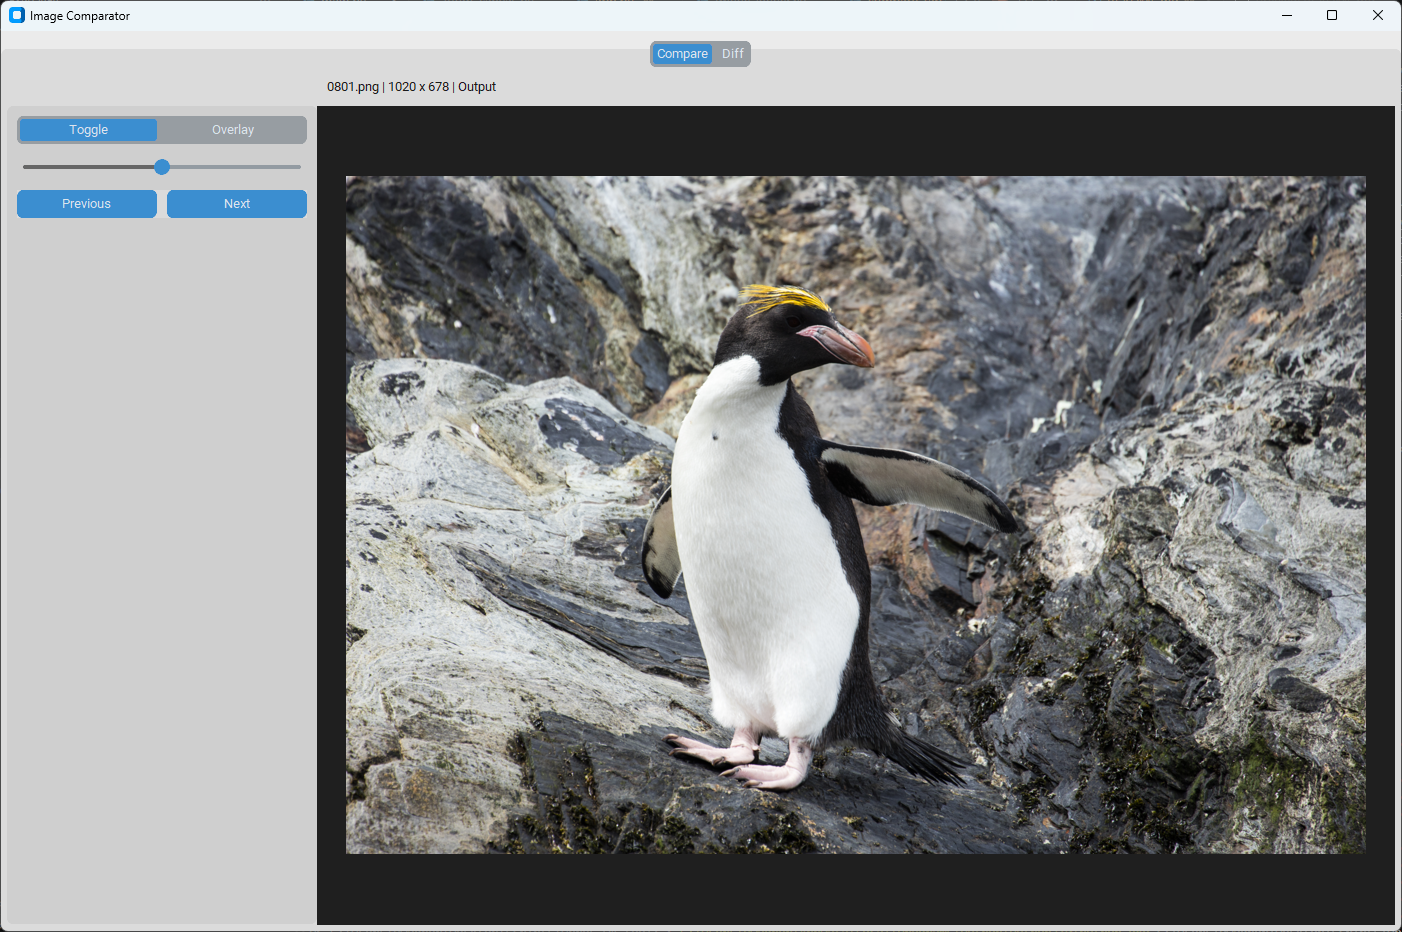
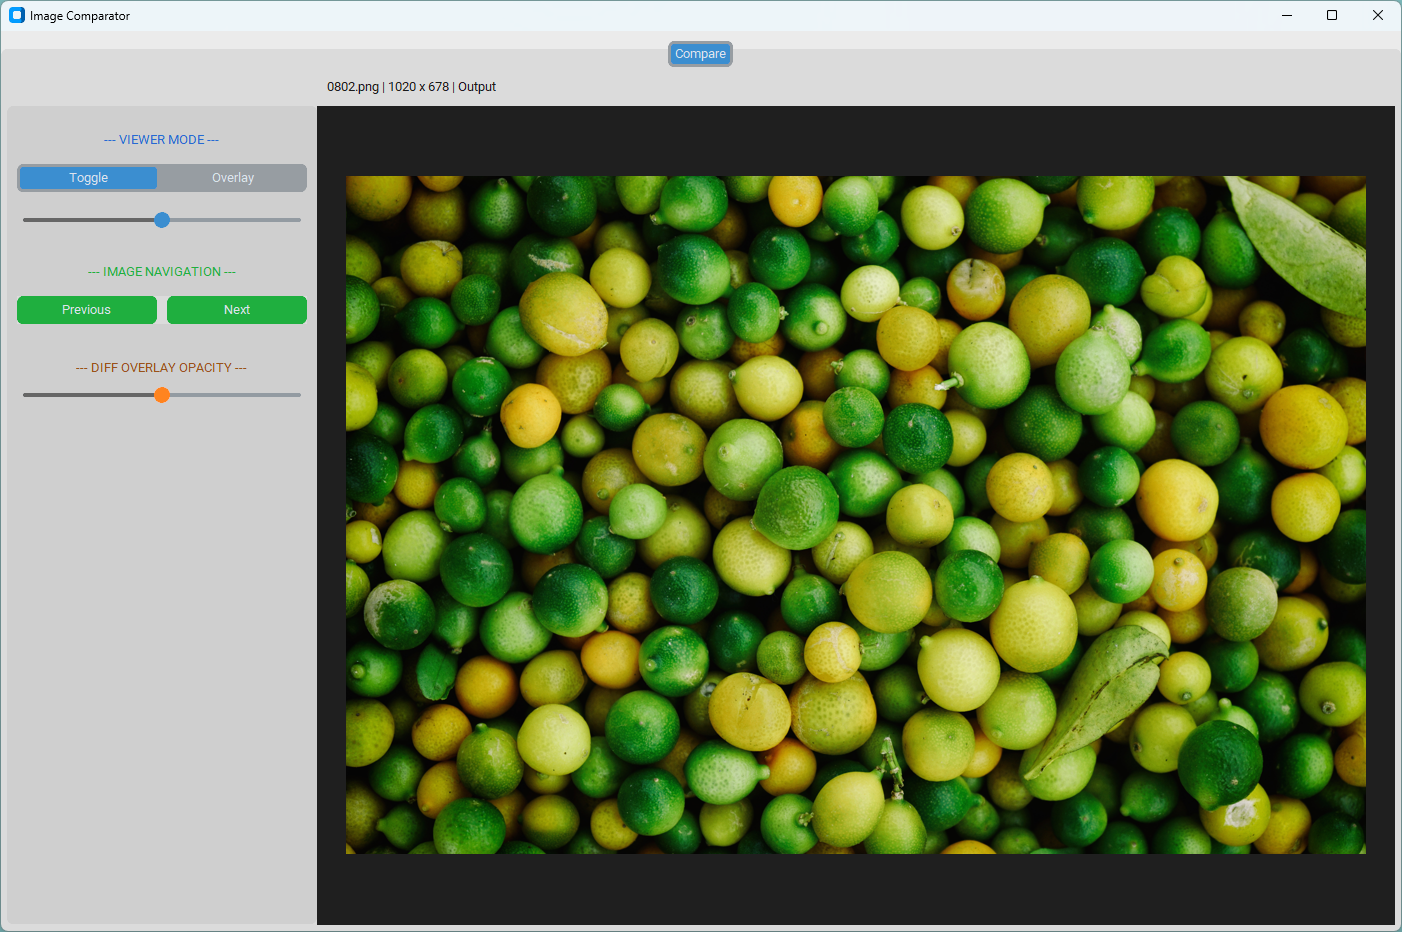
Major update
Added the diff mode viewer
Updated the UI
Updated the Readme

diff --git a/ui/compare_tab.py b/ui/compare_tab.py
@@ -1,5 +1,7 @@
 import customtkinter as ctk
 from PIL import Image
+import numpy as np
+
 
 
 class CompareTab(ctk.CTkFrame):
@@ -11,6 +13,9 @@ class CompareTab(ctk.CTkFrame):
 
         self.compare_mode = ctk.StringVar(value="Toggle")
         self.slider_value = ctk.DoubleVar(value=0.5)
+        
+        self.diff_cache = {}
+
 
         self._build_ui()
 
@@ -21,12 +26,12 @@ class CompareTab(ctk.CTkFrame):
         # Sidebar
         sidebar = ctk.CTkFrame(self, width=300)
         sidebar.grid(row=2, column=0, sticky="ns")
-
+        # VIEWER MODE BUTTONS
+        self.diff_label = ctk.CTkLabel(sidebar, text="--- VIEWER MODE ---", text_color="#246AD3")
+        self.diff_label.pack(padx=10, pady=(20,0), anchor="center")
         self.mode_selector = ctk.CTkSegmentedButton(
             sidebar,
-            # values=["Toggle", "Side-by-side", "Overlay"], <-- no need for the side-by-side view
             values=["Toggle", "Overlay"],
-
             variable=self.compare_mode,
             command=self.update_view
         )
@@ -38,8 +43,12 @@ class CompareTab(ctk.CTkFrame):
             to=1,
             variable=self.slider_value,
             command=lambda x: self.update_view()
-        )
-        self.slider.pack(padx=10, pady=5, fill="x")
+        )   
+        self.slider.pack(padx=10, pady=10, fill="x")
+
+        # NAVIGATION BUTTONS
+        self.diff_label = ctk.CTkLabel(sidebar, text="--- IMAGE NAVIGATION ---", text_color="#1FAF3F")
+        self.diff_label.pack(padx=10, pady=(20,0), anchor="center")
 
         nav_frame = ctk.CTkFrame(sidebar)
         nav_frame.pack(padx=10, pady=10, fill="x")
@@ -47,14 +56,35 @@ class CompareTab(ctk.CTkFrame):
         ctk.CTkButton(
             nav_frame,
             text="Previous",
-            command=self.controller.prev_image
+            command=self.controller.prev_image,
+            fg_color="#1FAF3F",
         ).pack(side="left", expand=True, fill="x", padx=(0, 5))
 
         ctk.CTkButton(
             nav_frame,
             text="Next",
-            command=self.controller.next_image
+            command=self.controller.next_image,
+            fg_color="#1FAF3F",
         ).pack(side="right", expand=True, fill="x", padx=(5, 0))
+
+        self.diff_opacity = ctk.DoubleVar(value=0.5)
+
+        # DIFF OPACITY BUTTONS
+        self.diff_label = ctk.CTkLabel(sidebar, text="--- DIFF OVERLAY OPACITY ---", text_color="#99531a")
+        self.diff_label.pack(padx=10, pady=(20,0), anchor="center")
+        self.diff_slider = ctk.CTkSlider(
+            sidebar,
+            from_=0.0,
+            to=1.0,
+            variable=self.diff_opacity,
+            button_color="#ff841f",
+            button_hover_color="#99531a",
+            command=lambda x: self.update_view()
+        )
+
+        self.diff_slider.pack(padx=10, pady=5, fill="x")
+
+        
 
         # Name of the image currently displayed
         self.info_label = ctk.CTkLabel(self, text="", anchor="w")
@@ -91,10 +121,12 @@ class CompareTab(ctk.CTkFrame):
             if view == "input":
                 img = self.input
                 source = "Ground-truth"
-            else:
+            elif view == "output":
                 img = self.output
                 source = "Output"
-
+            elif view == "diff":
+                img = self.diff_cache
+                source = "Output + Diff Overlay"
             width, height = img.size
 
             text = f"{file_name} | {width} x {height} | {source}"
@@ -123,6 +155,10 @@ class CompareTab(ctk.CTkFrame):
 
             elif self.controller.current_view == "output":
                 img = self.output
+
+            elif self.controller.current_view == "diff":
+                img = self.get_overlay_diff()
+
 
         elif mode == "Side-by-side":
             img = self.side_by_side(self.input, self.output)
@@ -157,3 +193,46 @@ class CompareTab(ctk.CTkFrame):
         out.paste(a.crop((0, 0, split, h)), (0, 0))
         out.paste(b.crop((split, 0, w, h)), (split, 0))
         return out
+
+
+    def get_overlay_diff(self):
+        file = self.controller.current_file
+
+        # base output image (what user sees)
+        base = self.output
+
+        # get diff image (heatmap)
+        diff_img = self.get_diff_image()
+
+        # resize diff to match base (safety)
+        if diff_img.size != base.size:
+            diff_img = diff_img.resize(base.size)
+
+        # convert to arrays
+        base_np = np.array(base).astype(np.float32)
+        diff_np = np.array(diff_img).astype(np.float32)
+
+        alpha = self.diff_opacity.get()
+
+        # blend
+        blended = (1 - alpha) * base_np + alpha * diff_np
+
+        return Image.fromarray(blended.astype(np.uint8))
+
+
+    def get_diff_image(self):
+        file = self.controller.current_file
+
+        # Use cache
+        if file in self.diff_cache:
+            return self.diff_cache[file]
+
+        # Compute diff
+        diff_img, _ = self.controller.diff_engine.compute(
+            file,
+            method="SSIM",   # or read from a global setting later
+            resample=self.controller.get_resample_filter()
+        )
+
+        self.diff_cache[file] = diff_img
+        return diff_img

diff --git a/ui/app.py b/ui/app.py
@@ -4,6 +4,8 @@ from ui.diff_tab import DiffTab
 from pathlib import Path
 from PIL import Image
 from core.image_loader import discover_images
+from core.diff_engine import DiffEngine
+from PIL import Image
 
 
 class ImageCompareApp(ctk.CTk):
@@ -16,9 +18,14 @@ class ImageCompareApp(ctk.CTk):
 
         self.current_view = "input"
         self.current_file = None
+        
+
 
         self.gt_dir = Path("ground-truth")
         self.out_dir = Path("output")
+
+        self.diff_engine = DiffEngine(self.gt_dir, self.out_dir)
+
 
         self._build_ui()
 
@@ -31,16 +38,19 @@ class ImageCompareApp(ctk.CTk):
         self.compare_tab = CompareTab(compare_frame, self)
         self.compare_tab.pack(fill="both", expand=True)
         
-        diff_frame = self.tabs.add("Diff")
-        self.diff_tab = DiffTab(diff_frame, self)
-        self.diff_tab.pack(fill="both", expand=True)
+        # diff_frame = self.tabs.add("Diff")
+        # self.diff_tab = DiffTab(diff_frame, self)
+        # self.diff_tab.pack(fill="both", expand=True)
 
         self.load_first_image()
 
         self.bind_all("<Key>", self.handle_keys)
 
-    def load_first_image(self):
-        from core.image_loader import discover_images
+    
+    def get_resample_filter(self):
+        # will maybe add this with a dropdown, I will see
+        return Image.LANCZOS
+
 
     def load_first_image(self):
         # Discover files in both folders
@@ -86,6 +96,9 @@ class ImageCompareApp(ctk.CTk):
             self.current_view = "output"
         elif key == "space":
             self.compare_tab.canvas.reset_view()
+        elif key == "p":
+            self.current_view = "diff"
+
 
         elif key == "left":
             self.prev_image()

diff --git a/core/diff_engine.py b/core/diff_engine.py
@@ -19,19 +19,35 @@ class DiffEngine:
         gray = rgb2gray(arr)
         return img, img_as_float(gray)
 
-    def compute(self, rel_path, method="SSIM"):
+    def compute(self, rel_path, method="SSIM", resample=None):
         gt_path = self.gt_dir / rel_path
         out_path = self.out_dir / rel_path
 
         gt_img, gt_arr = self.load_image(gt_path)
         out_img, out_arr = self.load_image(out_path)
+        gt_img = gt_img.resize(out_img.size, resample)
+        gt_arr = rgb2gray(np.array(gt_img))
 
-        # Resize if needed (simple version)
-        h = min(gt_arr.shape[0], out_arr.shape[0])
-        w = min(gt_arr.shape[1], out_arr.shape[1])
 
-        gt_arr = gt_arr[:h, :w]
-        out_arr = out_arr[:h, :w]
+        # Resize ground-truth to match output size
+        # if gt_arr.shape != out_arr.shape:
+        #     from skimage.transform import resize
+
+        #     gt_arr = resize(
+        #         gt_arr,
+        #         out_arr.shape,
+        #         preserve_range=True,
+        #         anti_aliasing=True
+        #     )
+        gt_img = Image.open(gt_path).convert("RGB")
+        out_img = Image.open(out_path).convert("RGB")
+
+        if gt_img.size != out_img.size:
+            if resample is None:
+                resample = Image.LANCZOS
+
+            gt_img = gt_img.resize(out_img.size, resample)
+        
 
         # --- Metrics ---
         mse = float(np.mean((gt_arr - out_arr) ** 2))

diff --git a/README.md b/README.md
@@ -3,17 +3,23 @@
 This tool was built to assess the quality of upscaled images in computer vision pipelines.
 
 It allows fast visual comparison between ground-truth and output images, enabling:
-- quick inspection of artifacts
-- consistent quality validation
-- efficient communication with stakeholders
+- Quick inspection of artifacts
+- QA for image upscaling pipelines (ML / super-resolution)
+- Efficient communication with stakeholders (incl. clients)
+- Visual validation of processing outputs
 
 ## Features
-- Define input and output folders for image comparisons
-- Pressing I/O toggles input/output to easily compare the quality between both images (Ground-truth images are resized to match the output resolution for accurate comparison using the [Lanczos](https://en.wikipedia.org/wiki/Lanczos_algorithm) algorithm)
-- Space bar to reset the canvas viewport
-- Arrow keys to move through the images (buttons are also available)
-- Multiple view methods: Toggle or Overlay with a selector to set the limit between both images
-- Coming soon: difference map generator to standardize quality errors assessments
+- Compare images from two folders (ground-truth vs output)
+- Instant toggle between input/output (`I / O`)
+    - (Ground-truth images are resized to match the output resolution for accurate comparison using the [Lanczos](https://en.wikipedia.org/wiki/Lanczos_algorithm) algorithm)
+- Overlay comparison mode (adjustable split)
+- Diff visualization using SSIM heatmaps
+- Diff overlay directly on output (`P` key)
+    - Intensity of the overlay can be adjusted with the slider
+- `Space` bar to reset the canvas viewport
+- Zoom & pan for detailed inspection
+- Navigation between images (keyboard or UI buttons)
+- On-screen image information (filename, resolution, source)
 
 ## Why did you make this tool?
 I made a similar tool when I was working as Technical ML Product Manager in a computer vision start-up in 2017. 
@@ -66,3 +72,4 @@ python main.py
 - CustomTkinter (UI)
 - Pillow (image processing)
 - scikit-image (metrics and comparisons)
+- NumPy / Matplotlib
